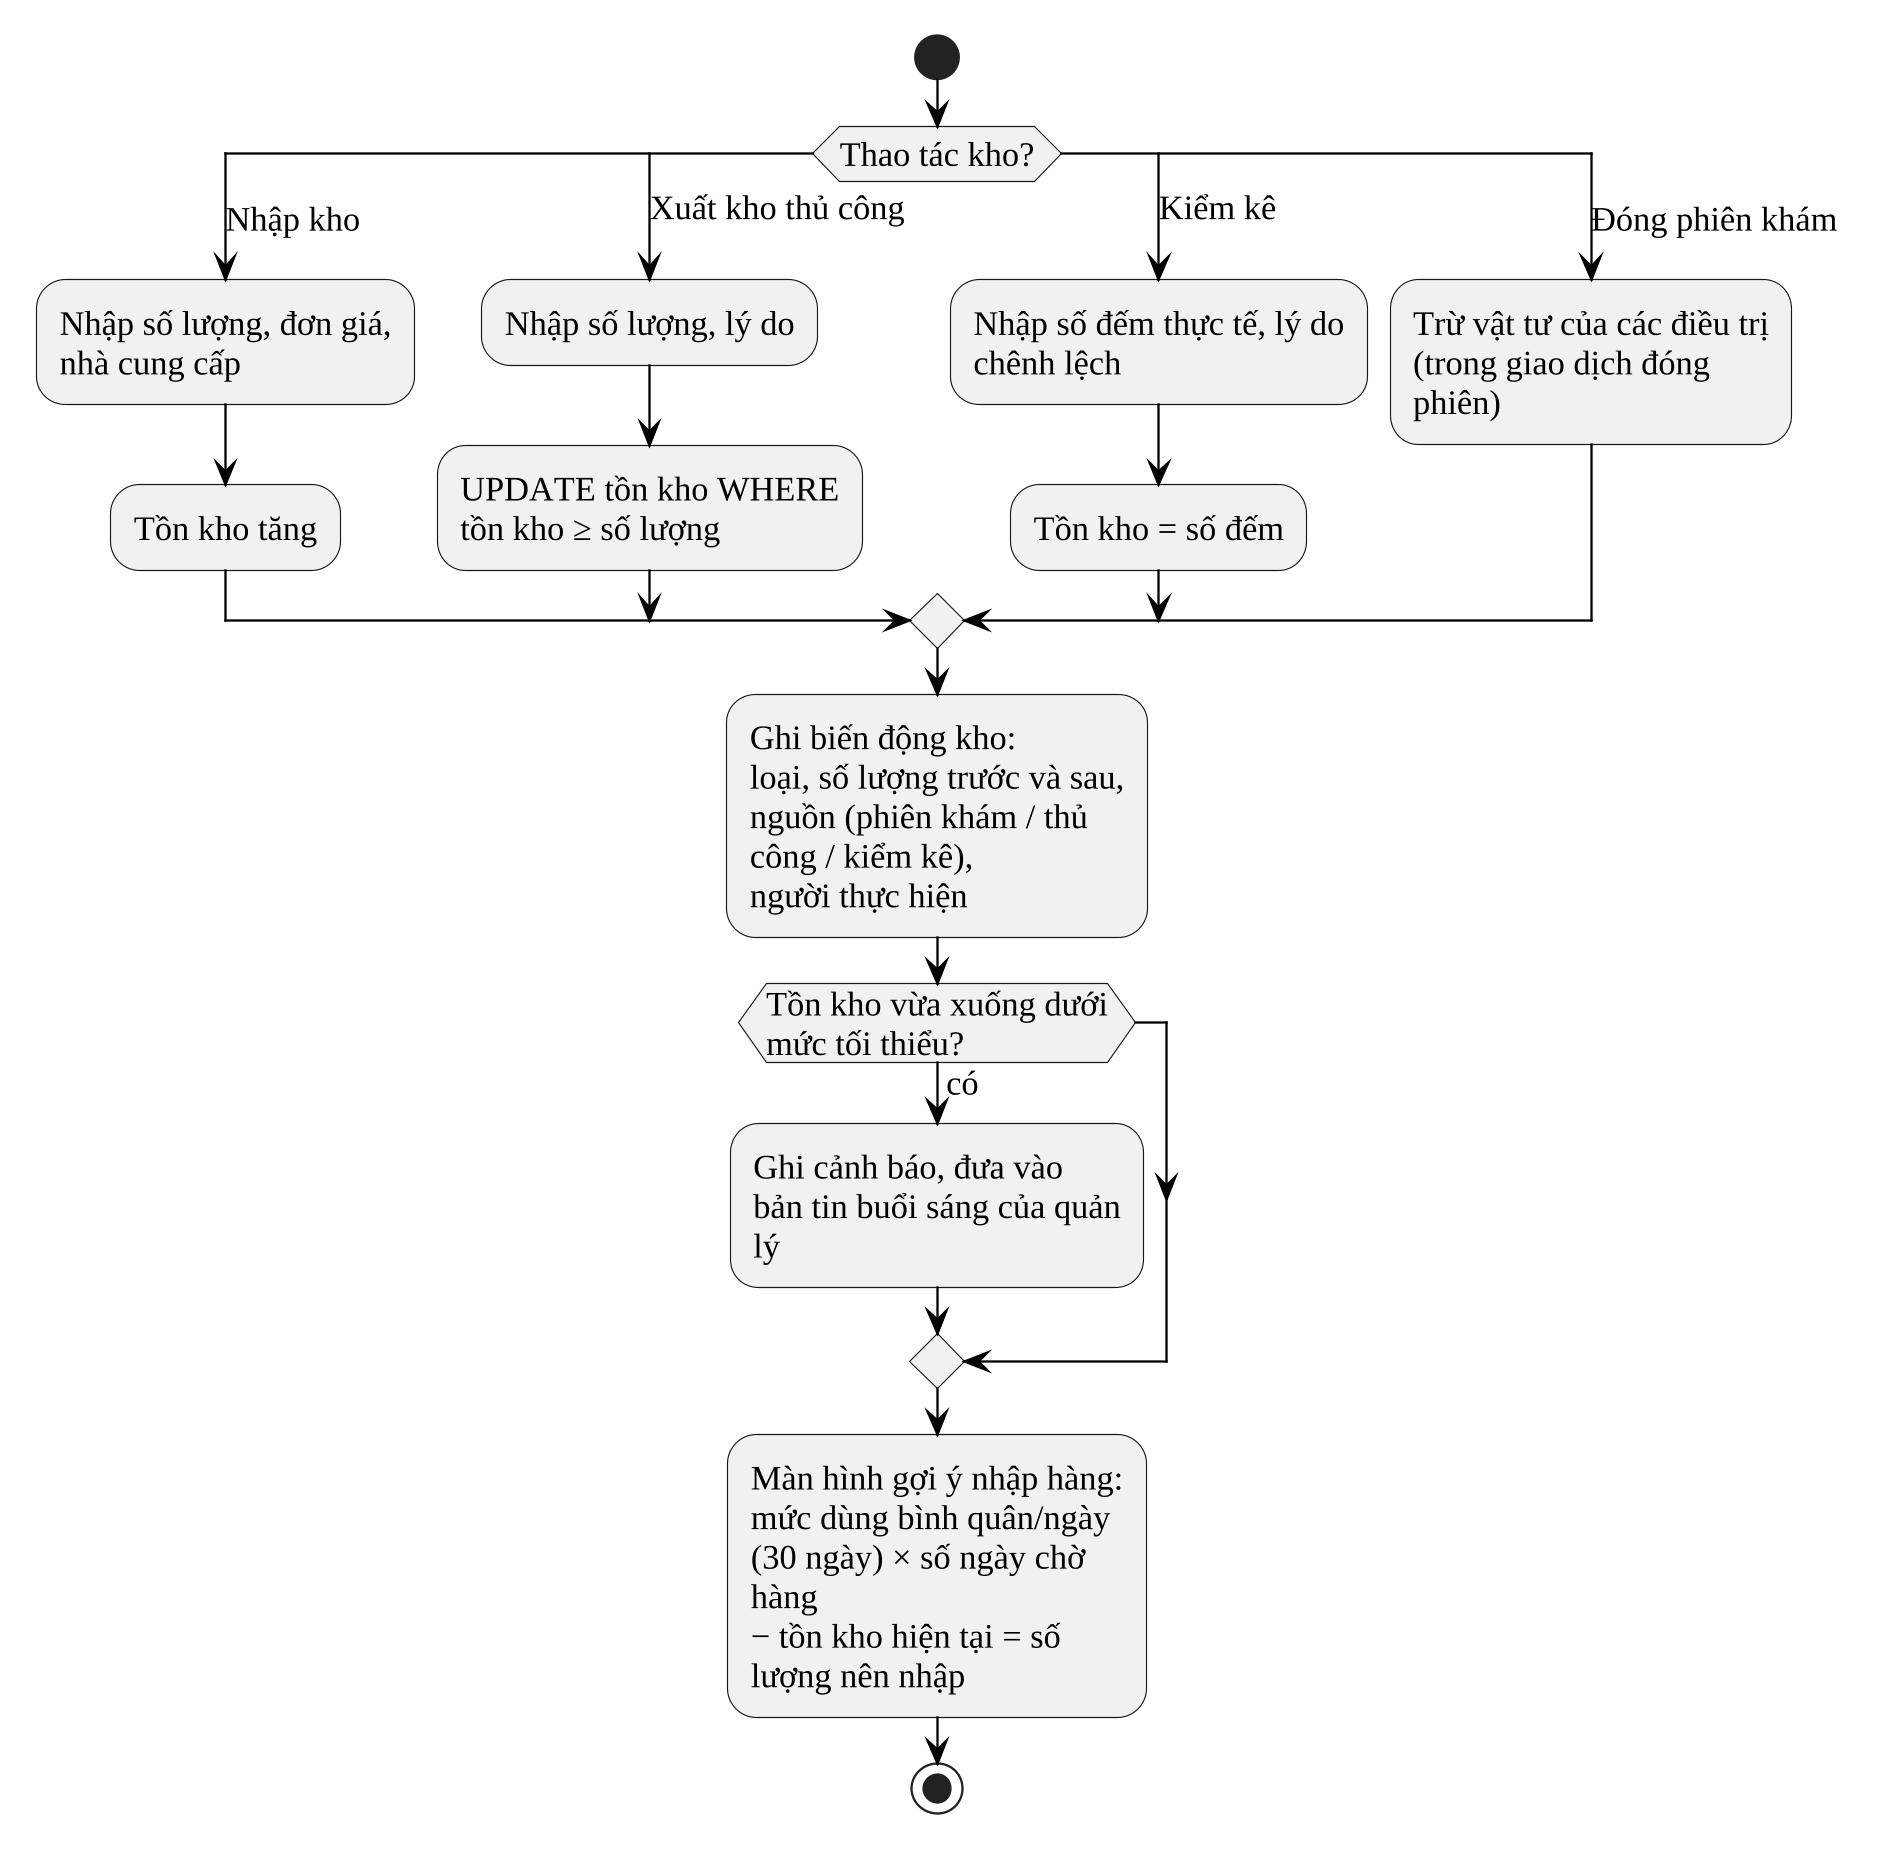
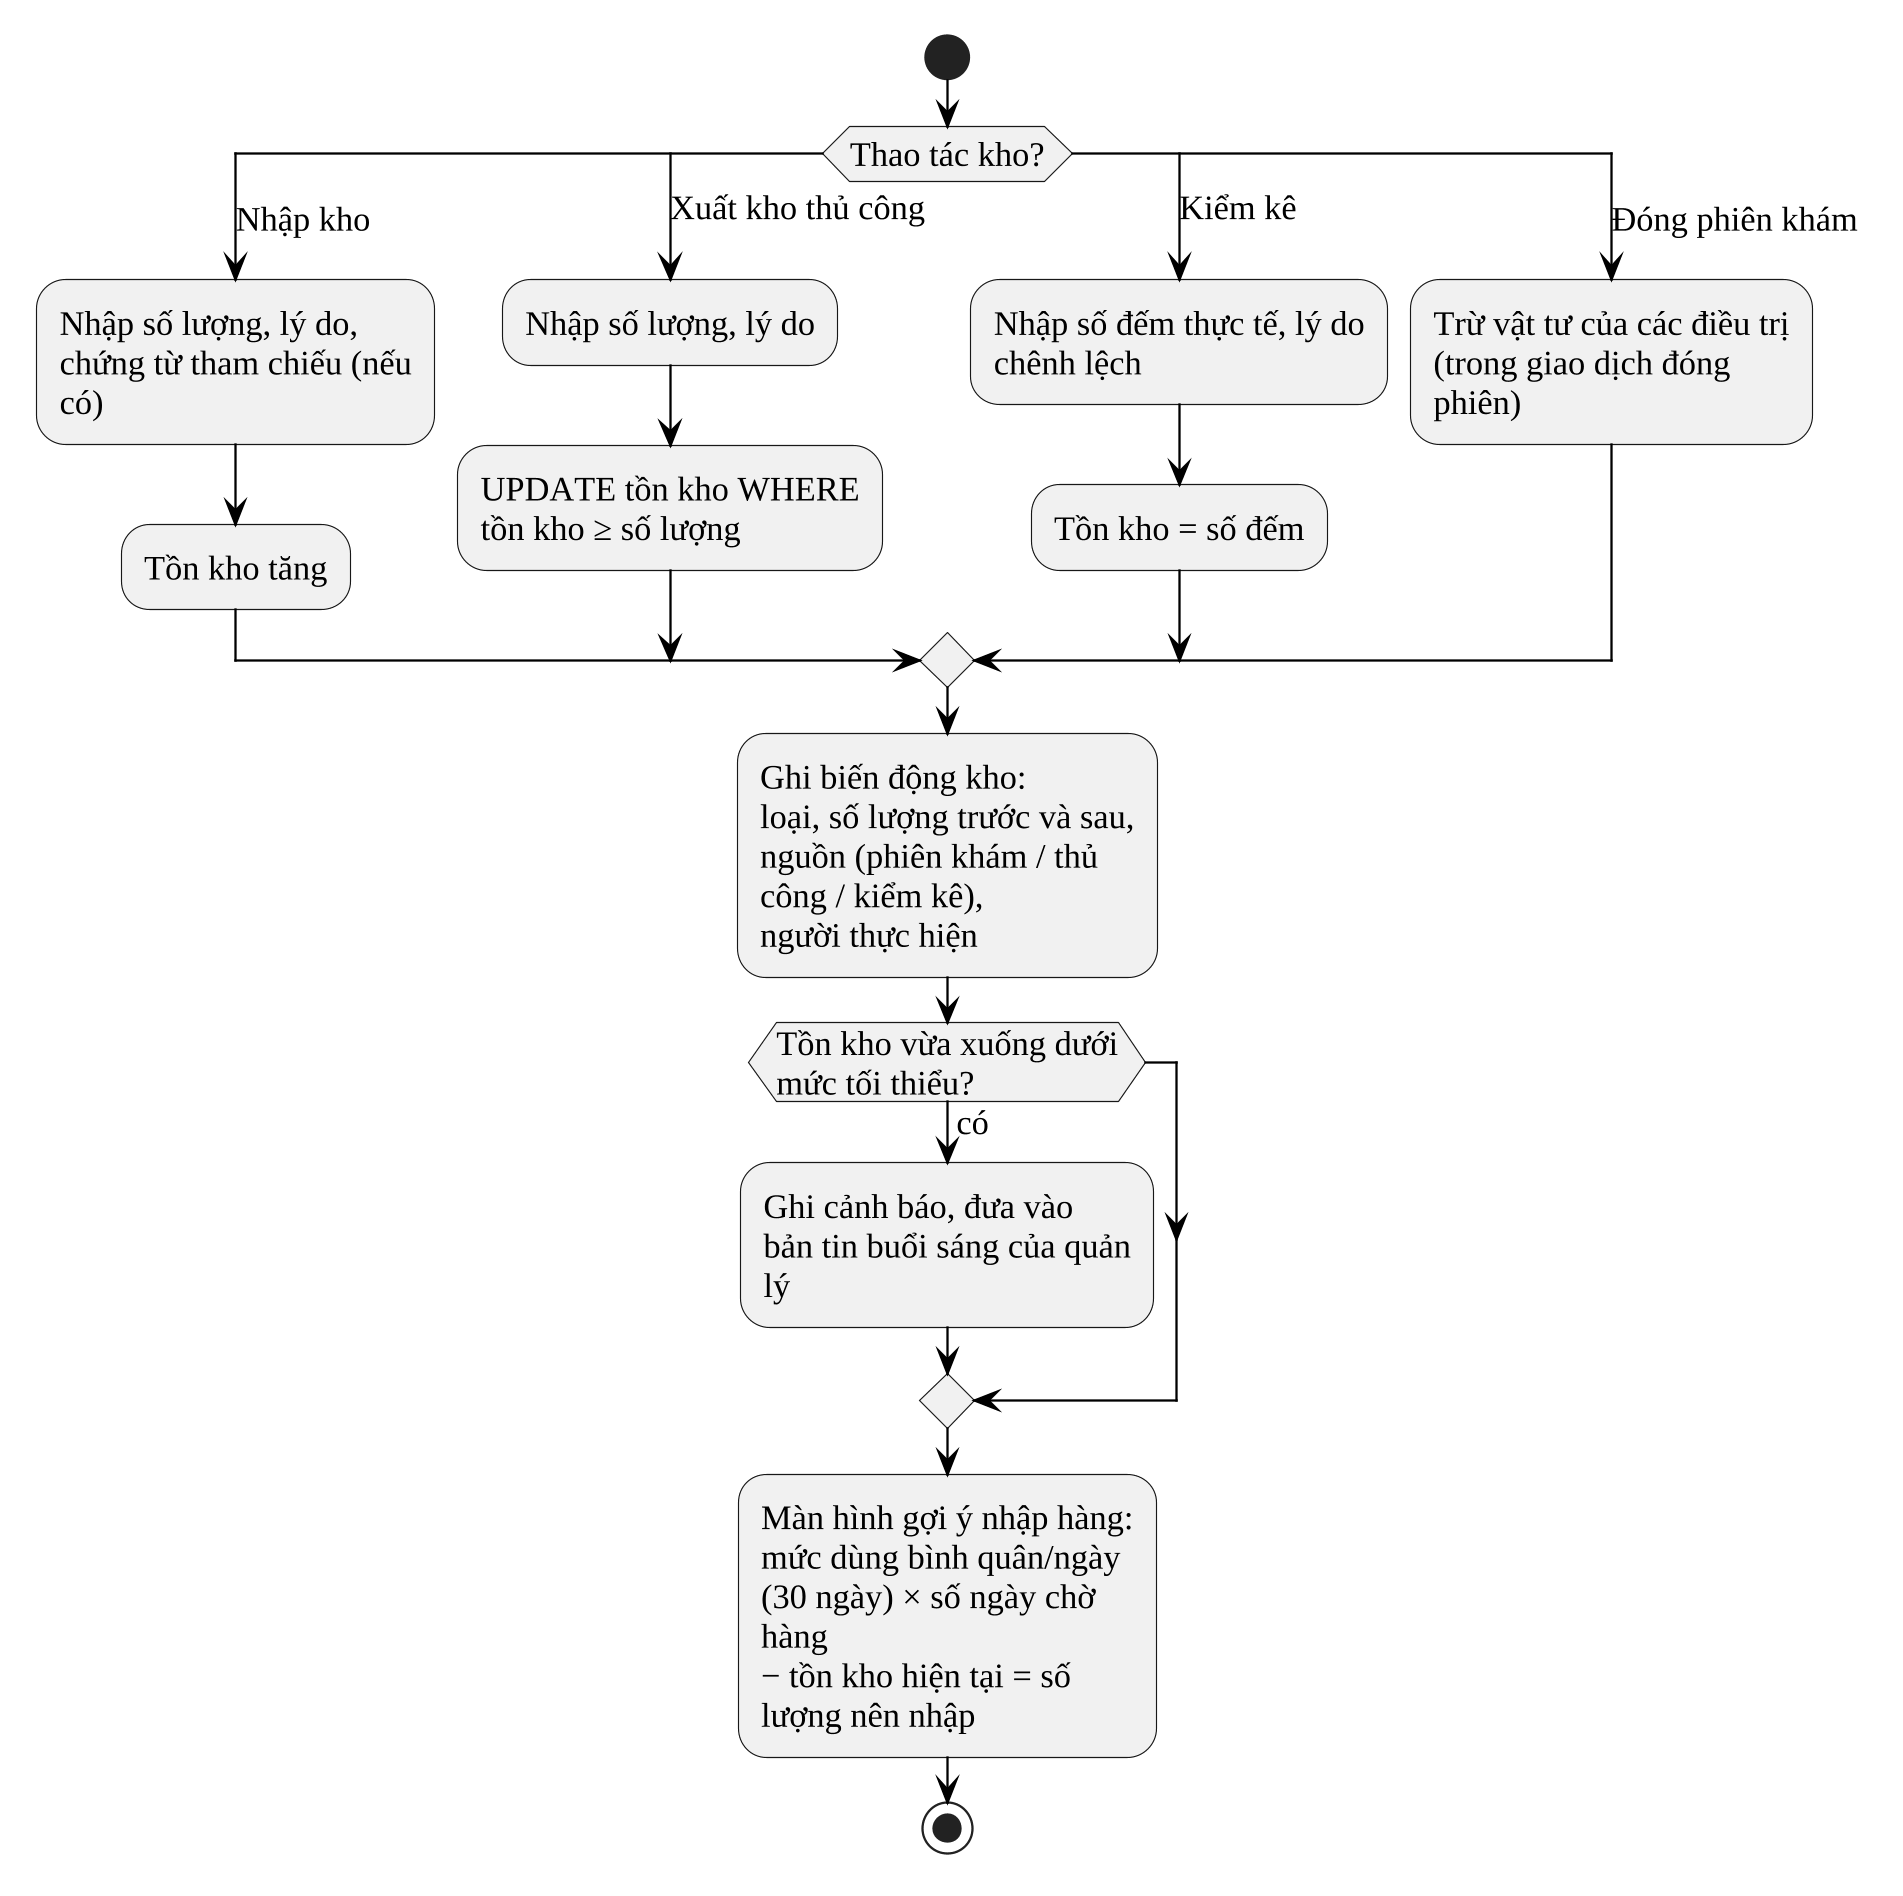
docs(thesis): sửa biểu đồ kho và đồng thuận theo đúng mã
Claude-Session: https://claude.ai/code/session_01TBoubatqgAjjLj8yNYh2bv

diff --git a/docs/10_Thesis/bao-cao/13-chuong-3.md b/docs/10_Thesis/bao-cao/13-chuong-3.md
@@ -612,7 +612,7 @@ Hình 3.29. Biểu đồ hoạt động tạo và gộp hồ sơ bệnh nhân
 Nguồn: Tác giả
 :::
 
-**Sổ đồng thuận.** Hệ thống lưu sự đồng ý của bệnh nhân từ ba kênh (Hình 3.30). Mỗi bản ghi giữ nguyên văn nội dung và phiên bản văn bản mà bệnh nhân đã đồng ý tại thời điểm đó, nên khi văn bản thay đổi về sau vẫn biết chính xác bệnh nhân đã đồng ý với điều gì, đáp ứng yêu cầu về sự đồng ý của chủ thể dữ liệu [@nd13].
+**Sổ đồng thuận.** Hệ thống lưu sự đồng ý của bệnh nhân từ ba kênh (Hình 3.30). Mỗi bản ghi giữ nguyên văn nội dung và phiên bản văn bản mà bệnh nhân đã đồng ý tại thời điểm đó, nên khi văn bản thay đổi về sau vẫn biết chính xác bệnh nhân đã đồng ý với điều gì, đáp ứng yêu cầu về sự đồng ý của chủ thể dữ liệu [@nd13]. Nếu văn bản vừa được cập nhật trong lúc khách đang đọc bản cũ, hệ thống từ chối và yêu cầu tải lại, để không ghi nhận sự đồng ý với một nội dung khách chưa thấy.
 
 ::: {custom-style="Ảnh"}
 ![](hinh/3-25-hoat-dong-dong-y.png){width=12cm}

diff --git a/docs/progress/session-log.md b/docs/progress/session-log.md
@@ -143,3 +143,4 @@
 - Đối chiếu chuyển trạng thái còn lại: phiên khám (điều kiện hủy/mở lại, encounter.reopen, hủy hóa đơn nháp), kế hoạch (DRAFT→ACCEPTED, PROPOSED→DRAFT khi sửa báo giá), chi phí (không tự duyệt); nhắc tái khám khớp sẵn. Vẽ lại 3 hình, bổ sung đoạn mô tả.
 - Đối chiếu biểu đồ hoạt động: đối soát (thêm NO_ACTOR, RECORD_FAILED; Bảng A.1 thêm BANK_WEBHOOK_ACTOR_EMAIL); đóng phiên khám (thêm bắt buộc lý do khám/chẩn đoán, sàng lọc dị ứng lúc đóng + PRESCRIPTION_ALLERGY_OVERRIDE, tạo nhắc tái khám trong giao dịch).
 - Hình 3.21 nhắc lịch vẽ lại: hai tác vụ độc lập email (đầu giờ, reminderSentAt) và Zalo/SMS (phút 20, dedupeKey, thử lại 3 lần); nhắc tái khám 9:15 hằng ngày; cập nhật đoạn 3.3.6.
+- Đối chiếu biểu đồ: kho (sửa phiếu nhập: số lượng, lý do, chứng từ; không có đơn giá/nhà cung cấp), gộp hồ sơ (khớp), đồng thuận (thêm kiểm tra phiên bản thông báo cho cả 3 kênh, đổi tên Sổ đồng thuận).
